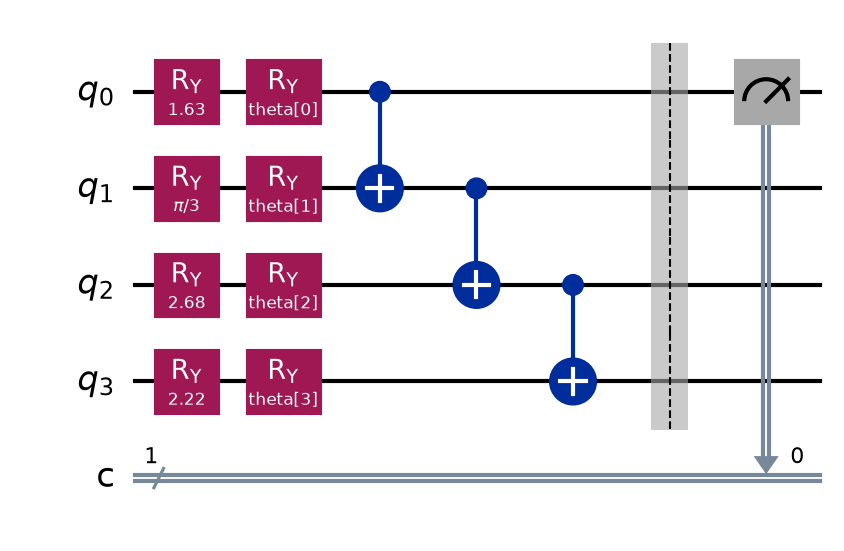
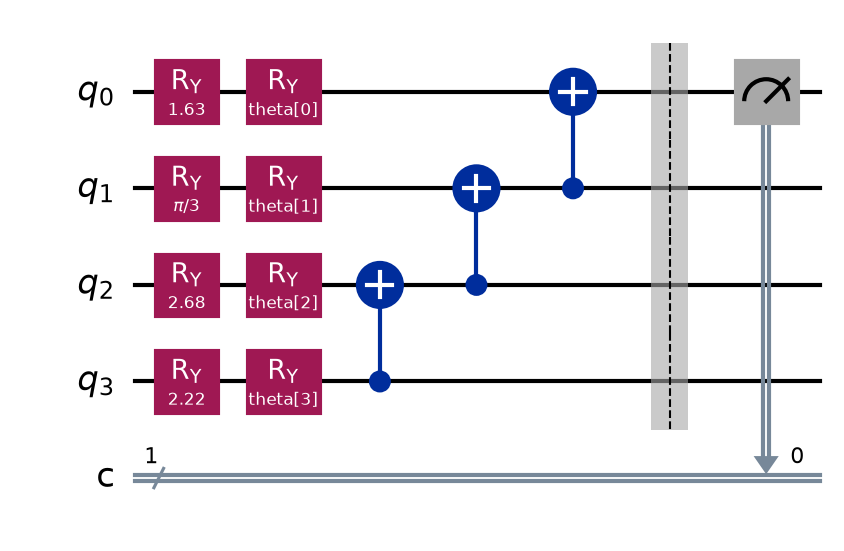
Reconfigure ansatz to entangle all qubits

diff --git a/src/ansatz.py b/src/ansatz.py
@@ -6,11 +6,12 @@ sim = AerSimulator()
 
 def build_ansatz(n_qubits=4, n_layers=1):
     '''
-    Requires: 
+    Parameters: 
         n_qubits: int
             number of qubits (default 4 Iris dataset features)
         n_layers: int
             number of layers (default 1)
+
     Returns: 
         qc: QuantumCircuit
             unmeasured quantum circuit
@@ -29,9 +30,10 @@ def build_ansatz(n_qubits=4, n_layers=1):
             idx+=1
         
         # Entanglement layer
-        # add CNOT gates to create correlation between qubits
-        for qubit in range(n_qubits - 1):
-            qc.cx(qubit, qubit+1)
+        # CNOT staircase ending at qubit 0, the measured qubit
+        # creates correlation between all qubits
+        for qubit in reversed(range(1, n_qubits)):
+            qc.cx(qubit, qubit-1)
     
         qc.barrier()
 
@@ -39,7 +41,7 @@ def build_ansatz(n_qubits=4, n_layers=1):
 
 def build_vqc(x, n_layers=1):
     '''
-    Requires:
+    Parameters:
         x: array-like w/ length 4 (in the case of the Iris dataset)
             length = number of qubits
         n_layers: int
@@ -66,7 +68,7 @@ def get_prob(qc, theta, theta_vals, shots=1000):
     '''
     Effect:
         Finds the probability of a parameterized VQC returning |1>
-    Requires:
+    Parameters:
         qc: QuantumCircuit
             measured quantum circuit built by build_vqc
         theta: ParameterVector

diff --git a/src/encoding.py b/src/encoding.py
@@ -3,10 +3,12 @@ from qiskit import QuantumCircuit
 
 def encode_data(x):
     '''
-    Requires:
+    Parameters:
         x: array-like w/ length 4
+
     Effect:
         Angle encodes normalized feature vector onto qubits using Ry rotation
+        
     Returns: 
         qc: QuantumCircuit
             unmeasured quantum circuit